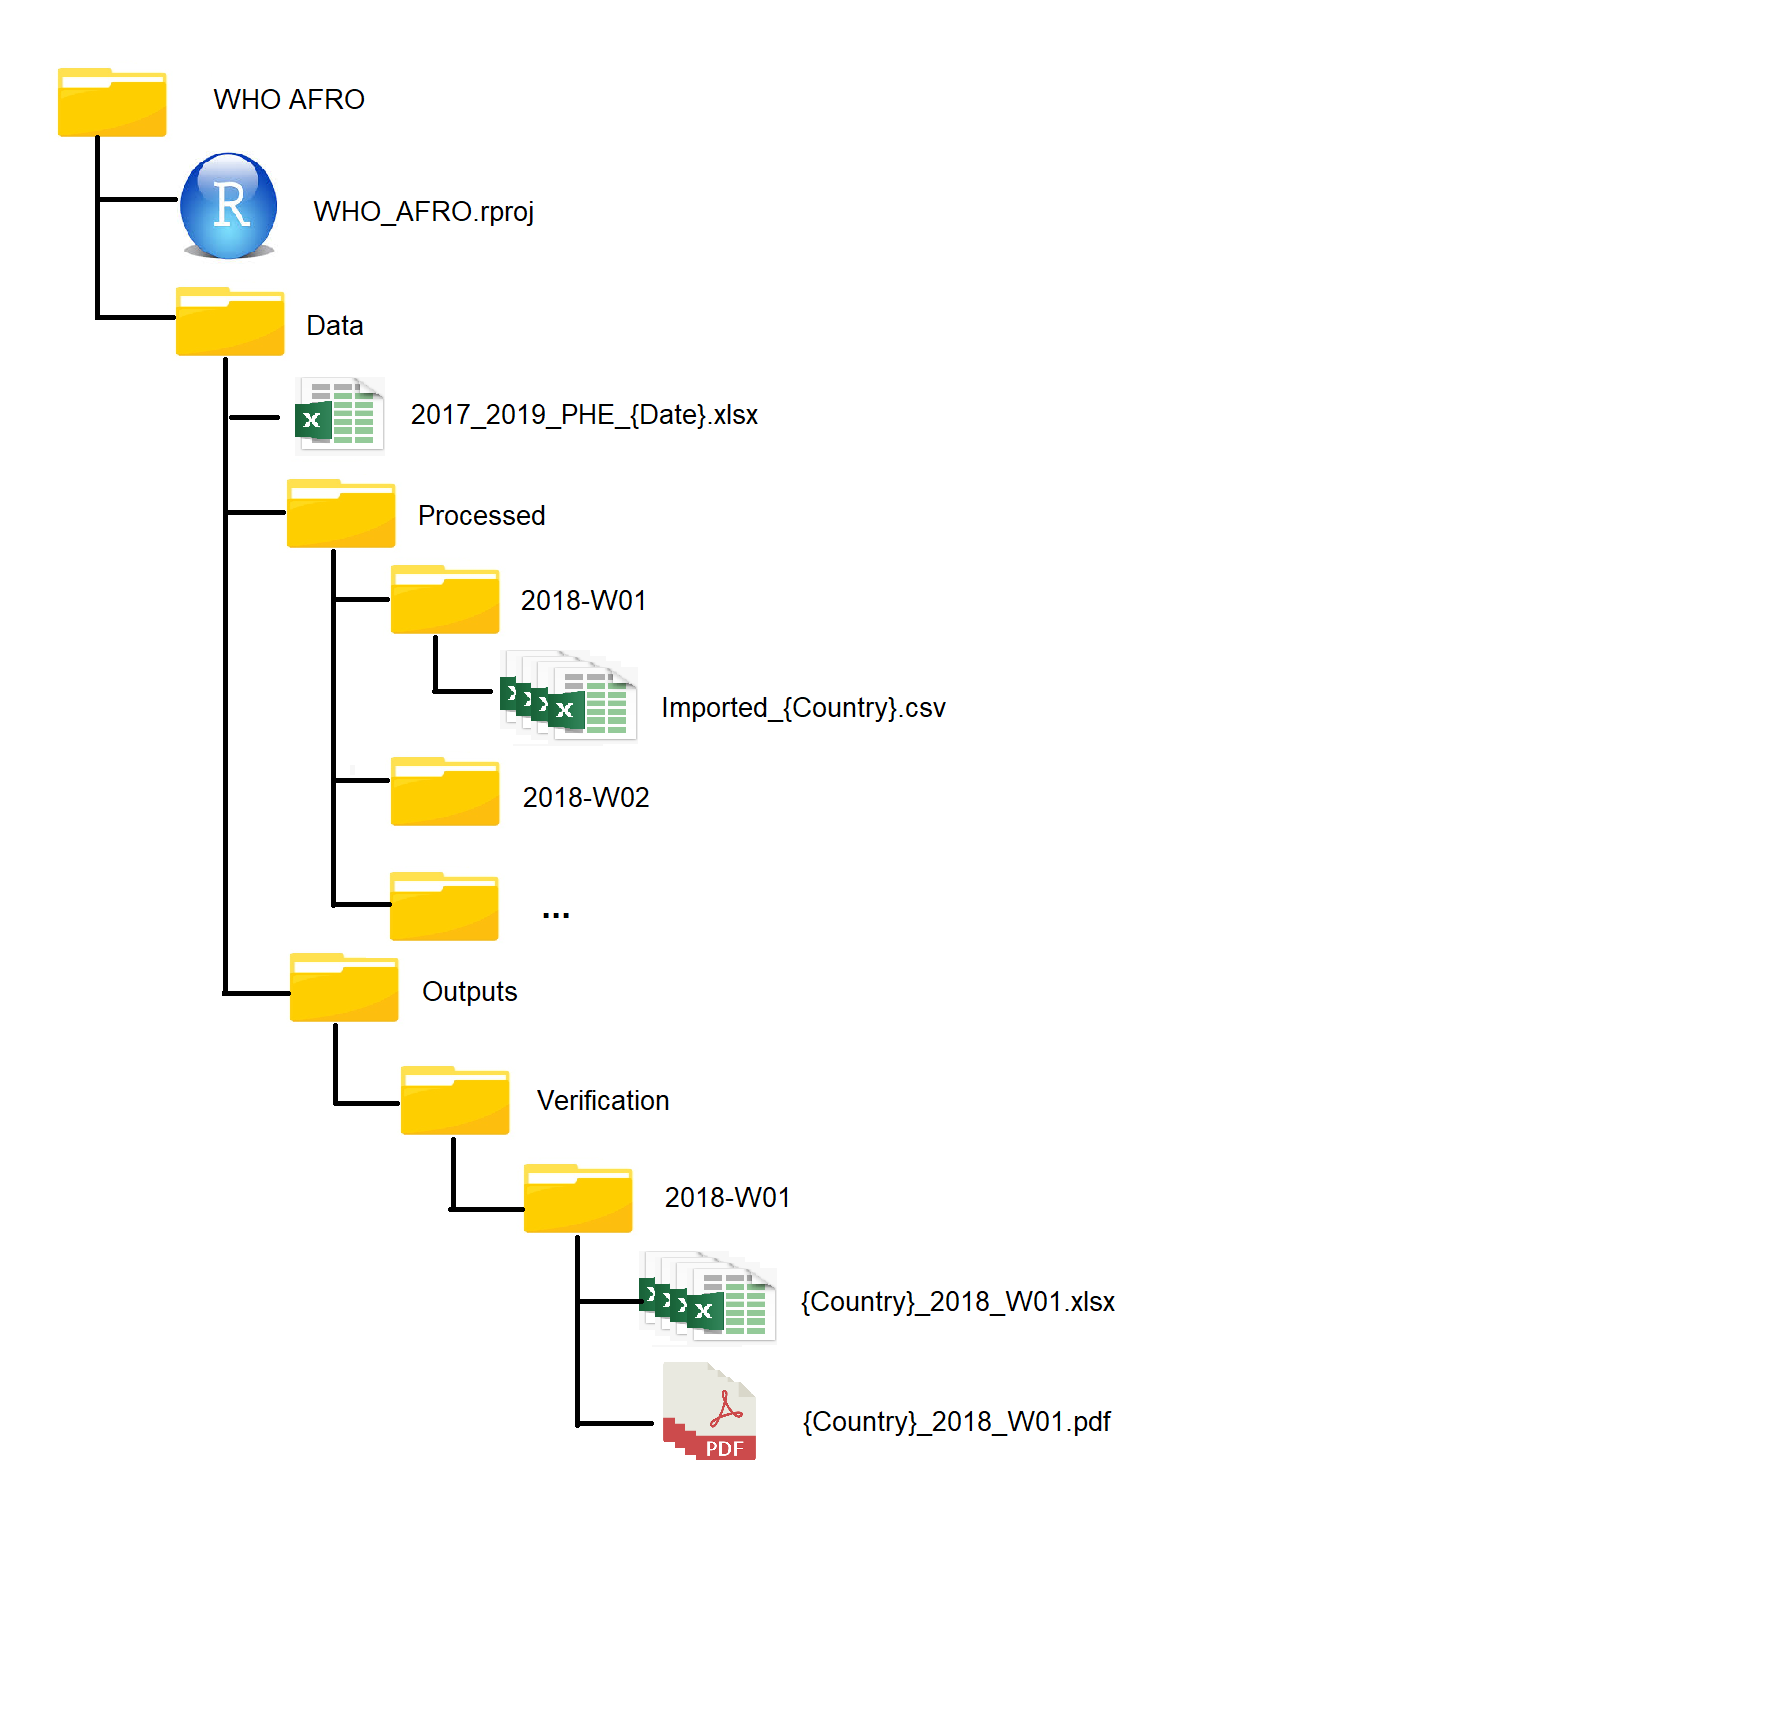
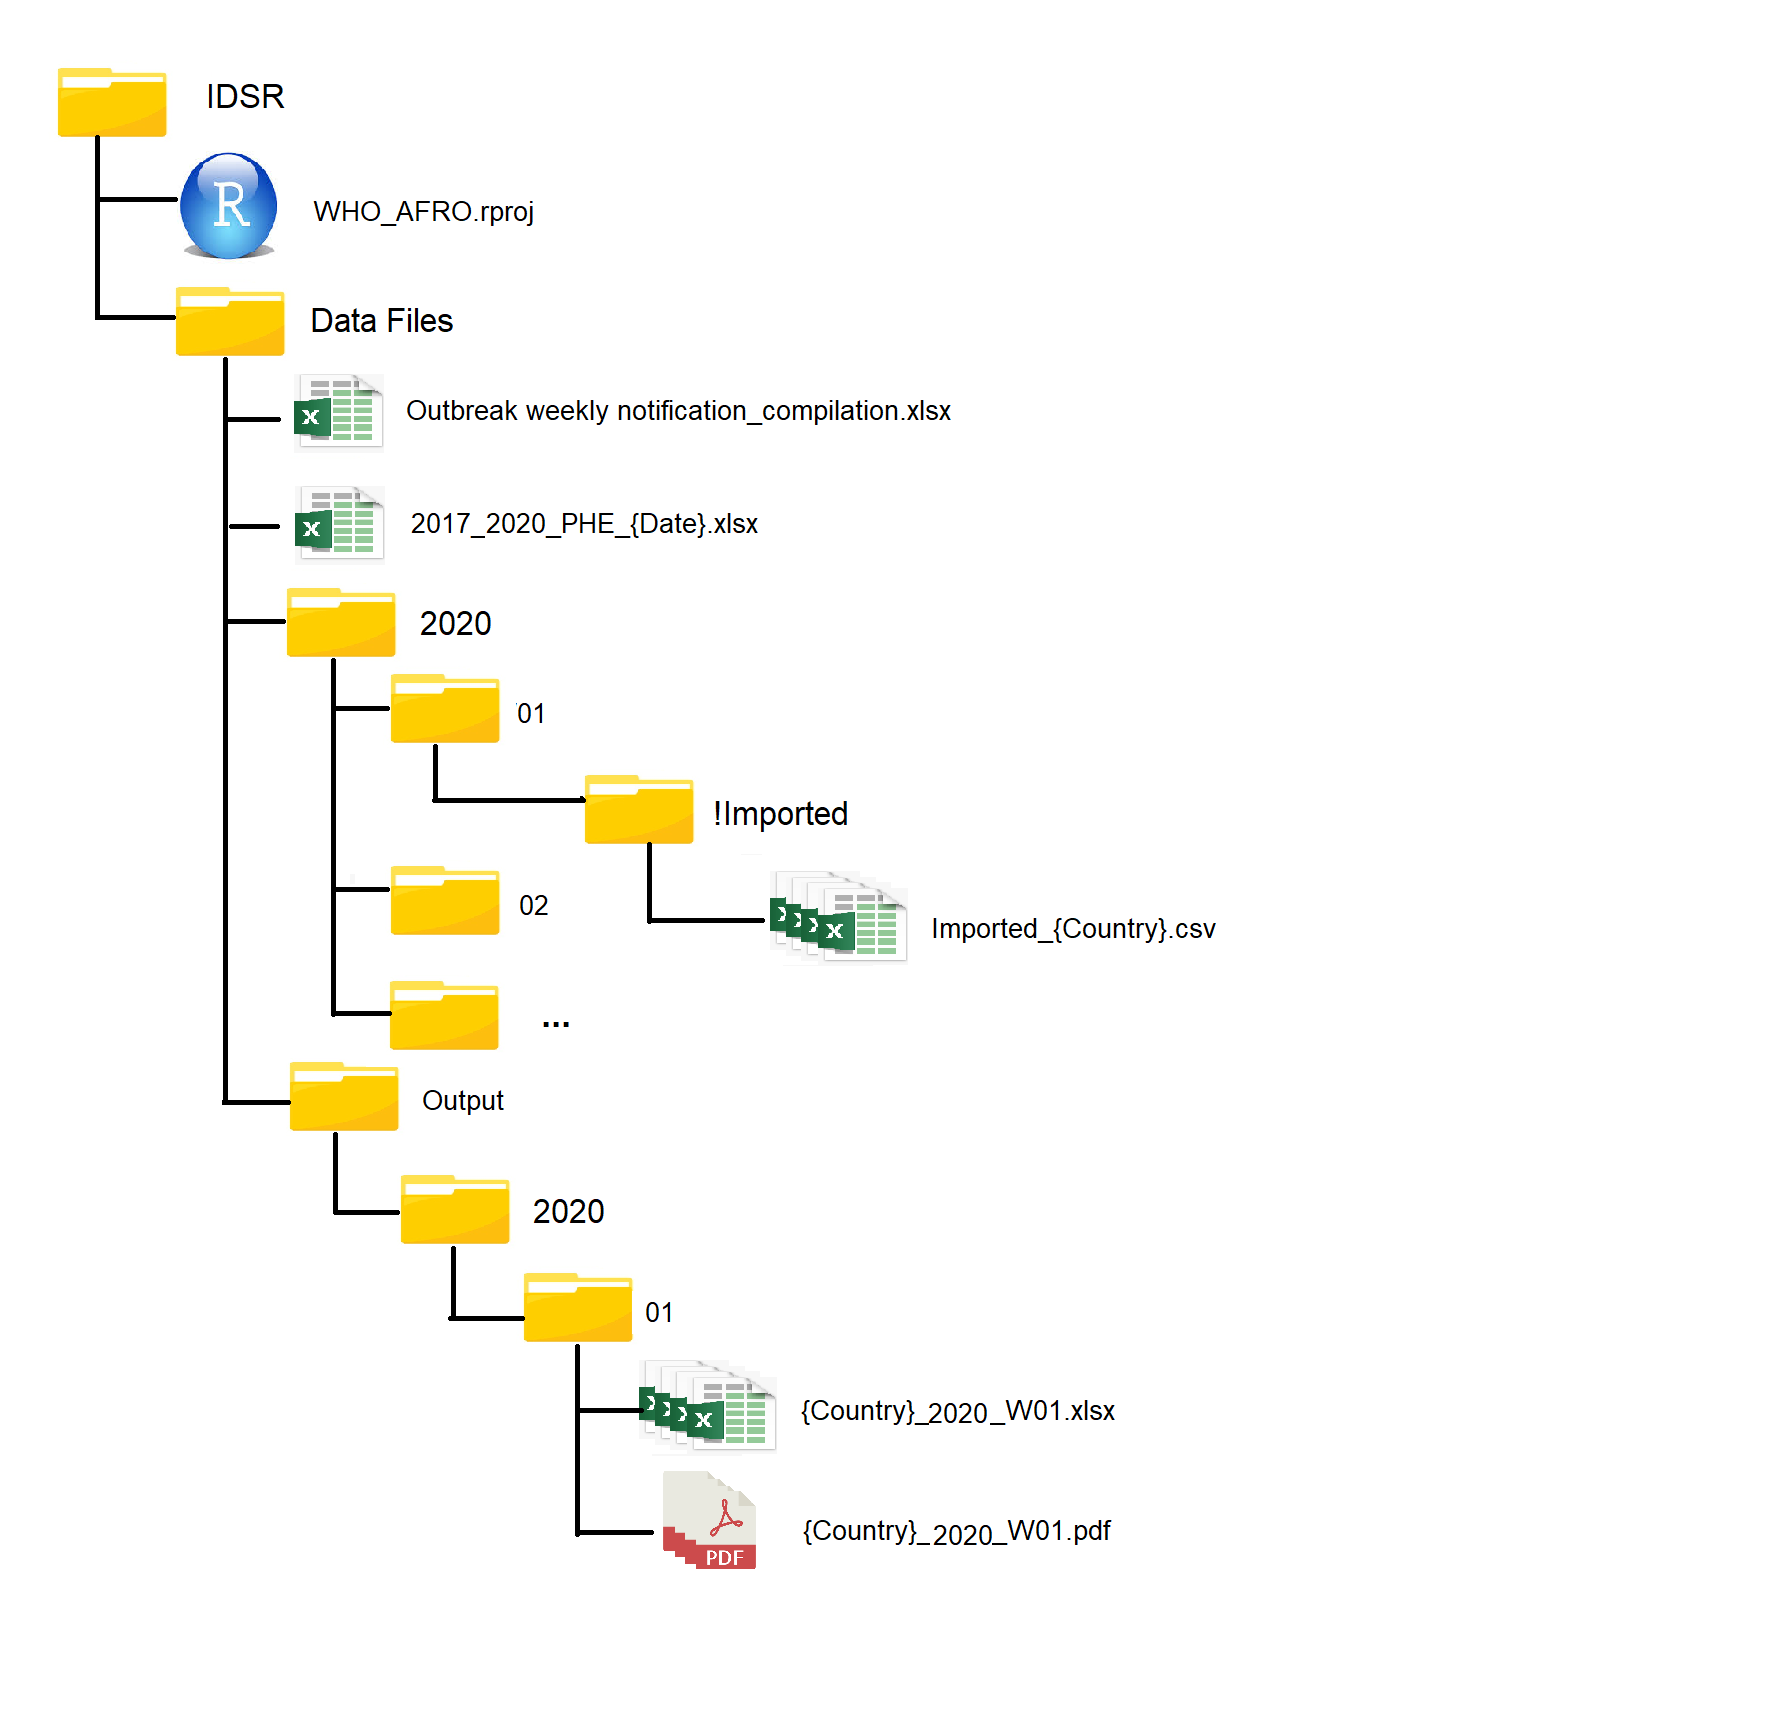
update readme

diff --git a/README.md b/README.md
@@ -60,22 +60,22 @@ tinytex::install_tinytex()
 
 ## Folder set up
 
-In order for the funtions to work you need to have folders set up
-correctly.
+The package is set up to run from to the WHO AFRO sharepoint IDSR
+folder.
 
-Create one main folder, in example called **WHO AFRO**.  
-Within this folder create an R project (e.g. **WHO\_AFRO.Rproj**) -
-*remember to open R through this project every time - to have the
-correct root directory*.  
-Within the **WHO AFRO** folder have a **Data** folder.  
-The **Data** folder contains the *PHE dataset* and a **Processed**
-folder which in turn has a folder for each calendar week.  
-Place *IDSR data* for each country as *CSV* files in to the appropriate
-calendar week folder.  
-Within the **WHO AFRO** folder create an **Outputs** folder, and within
-that a **Verification** folder. The package will create a folder for
+Within the main **IDSR** folder create an R project
+(e.g. **WHO\_AFRO.Rproj**) - *remember to open R through this project
+every time - to have the correct root directory*.  
+Within the **IDSR** folder have a **Data Files** folder.  
+The **Data Files** folder contains the *PHE dataset*, the **Outbreak
+reporting dataset** and a folder for each **Year** which in turn has a
+folder for each **calendar week**.  
+Each calendar week has *IDSR data* for each country with an
+**\!Imported** folder, as *XLSX* files.  
+Within the **Data Files** folder create an **Output** folder, and within
+that a folder for each **Year**. The package will create a folder for
 each calendar week and place, for each country, an excel with flags and
-a pdf letter with flags.
+a pdf letter.
 
 As an example:
 
@@ -88,25 +88,25 @@ pre-processed IDSR data.
 
 Open your R project (e.g. **WHO\_AFRO.Rproj**) and type the below code.
 
-This will produce outputs for week 35 of 2018 as an example. See
+This will produce outputs for week 1 of 2020 as an example. See
 ?week\_report for details of parameters that can be adjusted. *n.b. this
 can take a couple of minutes to run*
 
 ``` r
 library(epichecks)
-week_report(current_week = "2018-W35")
+week_report(current_year = 2020, current_week = 1)
 ```
 
-This function creates an excel (**Country\_2018\_W35.xlsx**) with two
+This function creates an excel (**Country\_2020\_W01.xlsx**) with two
 tabs, the first flags missing disease counts data and the second flags
 when disease counts data exceeds pre-defined thresholds.  
-It also creates a pdf letter (**Country\_2018\_W35.pdf**) which
+It also creates a pdf letter (**Country\_2020\_W01.pdf**) which
 summarises the flags in the excel.  
 These two files are created for each country.
 
 In addition it creates two files for internal WHO use.  
 The first is a summary of countries reporting, with counts of diseases,
-missings, and threshold flags (**SummaryReport\_2018\_W35.xlsx**).  
+missings, and threshold flags (**SummaryReport\_2020\_W01.xlsx**).  
 The second is an *R* dataset with all the countries for that week
 combined. (**Merged.Rds**)
 
@@ -120,8 +120,8 @@ definitions.
 ## WHO AFRO Monthly Bulletin
 
 This section explains how to use an *R markdown* template to create
-monthly WHO AFRO bulletins which includes information from **IDSR data**
-and **PHE data**.
+monthly WHO AFRO bulletins which includes information from **IDSR
+data**, **PHE data** and \*\*Outbreak monitoring data\*.
 
 To understand the basics of opening and using templates see this short
 [walkthrough](https://r4epis.netlify.com/outbreaks/#getting-started)
@@ -133,7 +133,8 @@ directory (i.e. the same place where your \*\*WHO\_AFRO.Rproj is saved).
 
 <img src="man/figures/template.png"/>
 
-You then need to **update the calendar week** sections of the code, see
+You then need to make sure that **file paths** are correct for the
+datasets, and **update the calendar week** sections of the code, see
 below. This can then be changed each month to produce the appropriate
 report.
 
